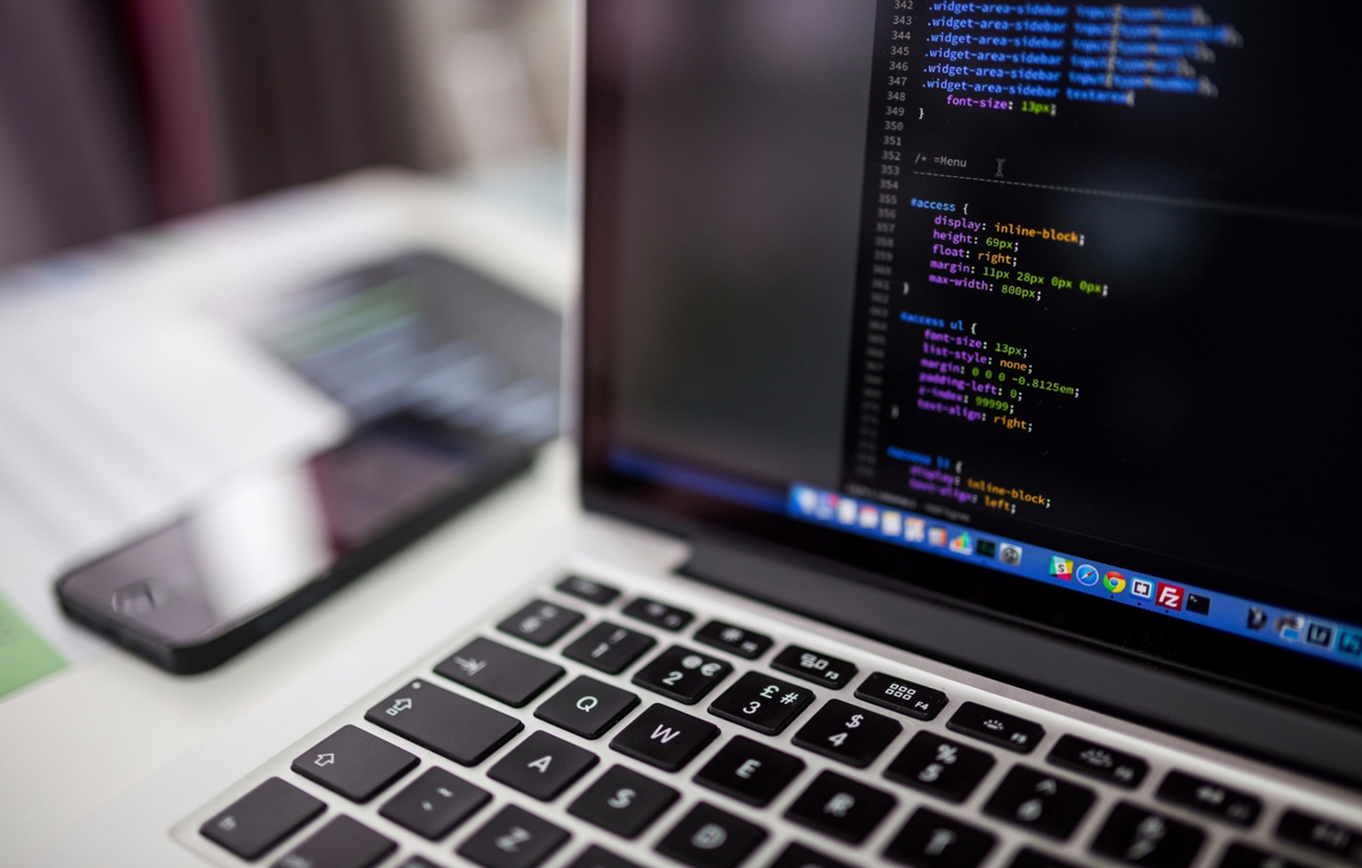
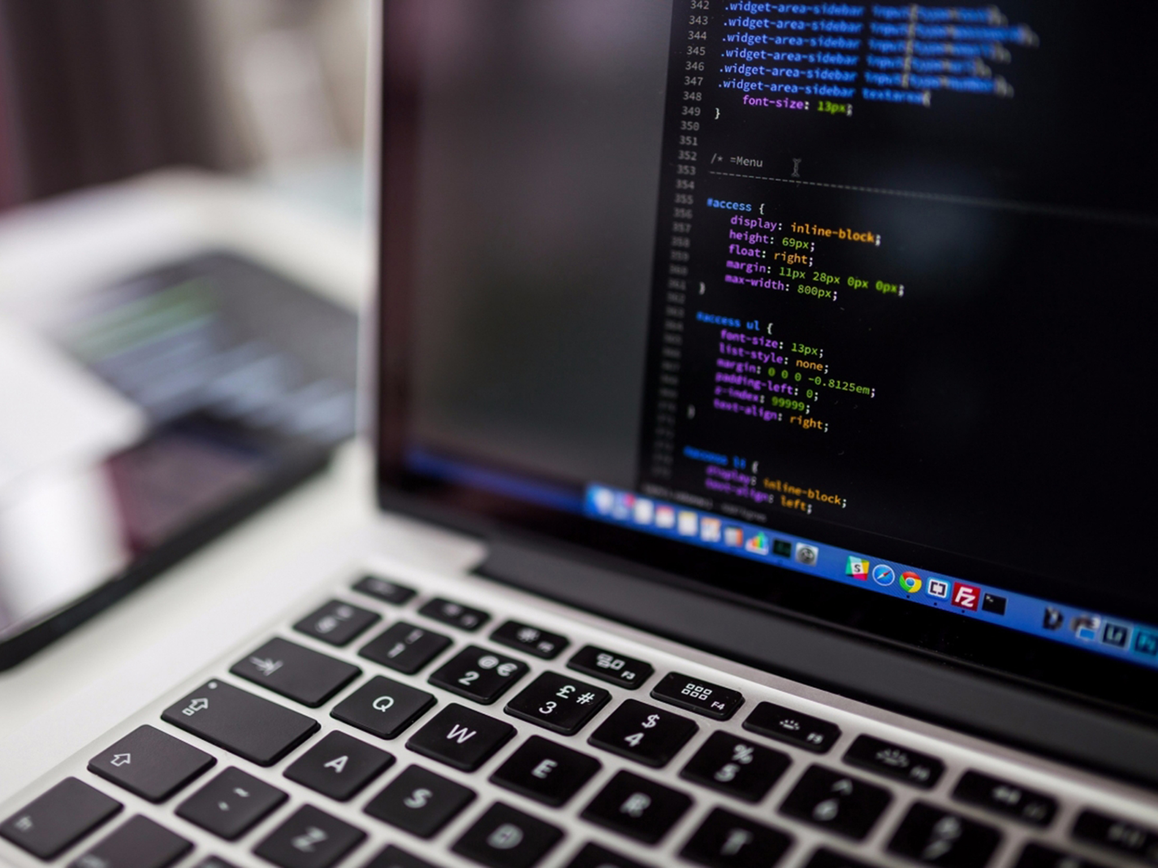
made portfolio even

diff --git a/index.html b/index.html
@@ -104,7 +104,7 @@
                                 <i class="fa fa-code fa-3x"></i>
                             </div>
                         </div>
-                        <img src="img/code.jpeg" height="2048" width="1536" class="img-responsive" alt="Cabin"></img>
+                        <img src="img/code.jpg" height="2048" width="1536" class="img-responsive" alt="Cabin"></img>
                         <h2 align = "center"> Code </h2>
                         <br></br>
                     </a>
@@ -185,7 +185,7 @@
                 </div>-->
                 <div class="col-lg-8 col-lg-offset-2 text-center">
                     <a href="https://www.linkedin.com/in/luolivia/" class="btn btn-lg btn-outline">
-                        <i class="fa fa-linkedin"> Linkedin </i>
+                        <i class="fa fa-linkedin"><h4><b> Linkedin </b></h4></i>
                     </a>
                 </div>
             </div>

diff --git a/css/freelancer.css b/css/freelancer.css
@@ -216,7 +216,10 @@ section.success {
 #portfolio .portfolio-item .portfolio-link {
   display: block;
   position: relative;
-  max-width: 400px;
+  max-width: 500px;
+  max-height: 420px;
+  /*width: 2048px;
+  height: 1536px;*/
   margin: 0 auto;
 }
 #portfolio .portfolio-item .portfolio-link .caption {
